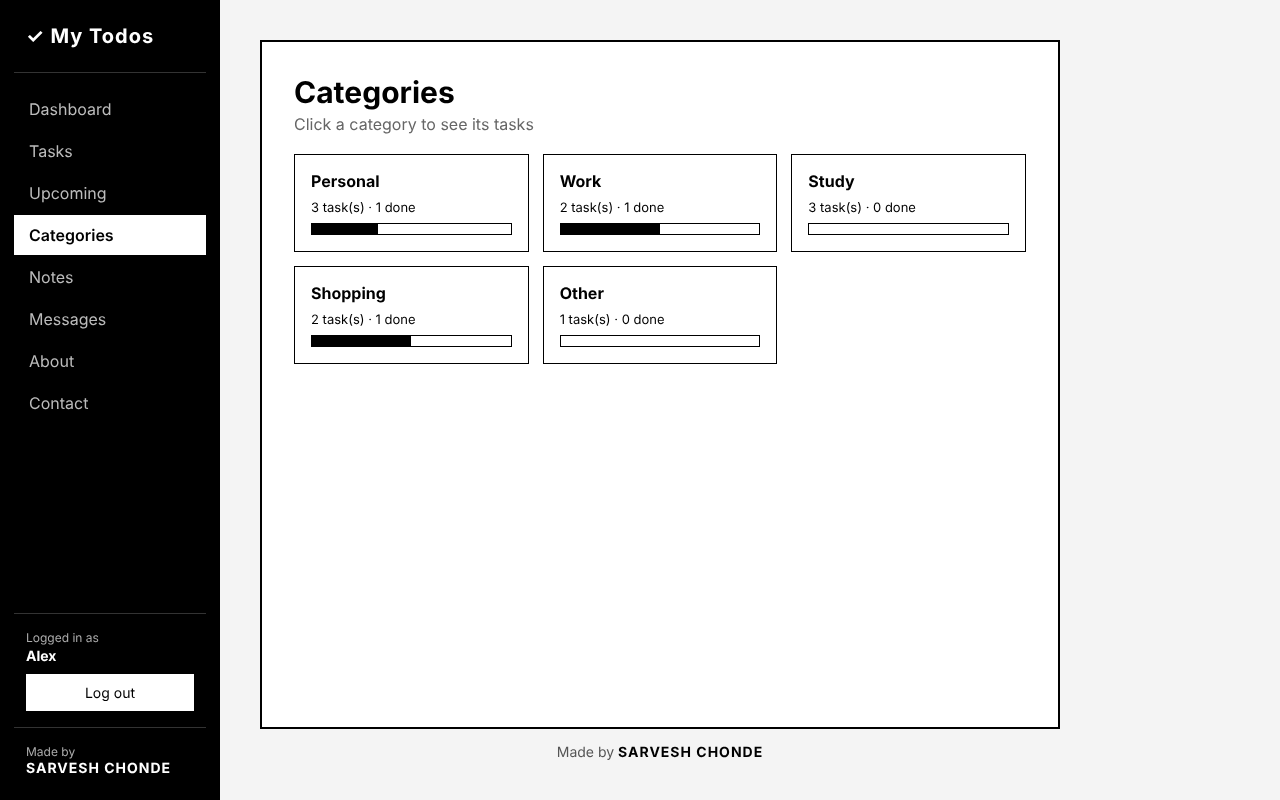
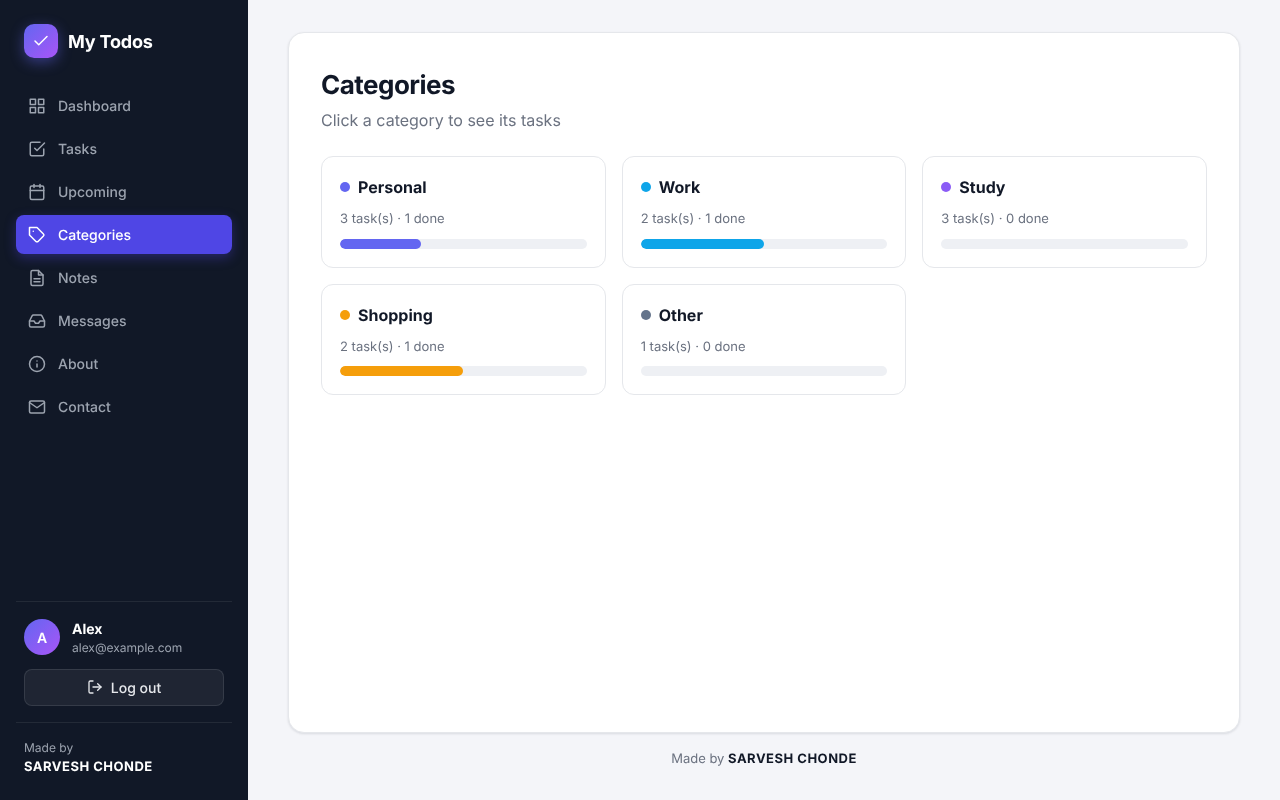
Refresh README screenshots for the new design and tidy the README
New screenshots of every page in the new design, a centred header with
tech badges and section links, a tech stack table and a project
structure section.

Claude-Session: https://claude.ai/code/session_014zHQb9wv94r19junnprv6W

diff --git a/README.md b/README.md
@@ -1,12 +1,31 @@
-# To Do List App
+<div align="center">
 
-A full-stack to do list app made by **SARVESH CHONDE**.
+# ✓ To Do List App
 
-- **client** – React (Vite) with React Router
-- **server** – Node.js (Express) REST API
-- **database** – MongoDB (any MongoDB you can open in MongoDB Compass, db `todoDb` by default)
+**A full-stack to do list app with accounts, categories, due dates and notes.**
+
+![React](https://img.shields.io/badge/React-19-149ECA?logo=react&logoColor=white)
+![Vite](https://img.shields.io/badge/Vite-8-646CFF?logo=vite&logoColor=white)
+![Node.js](https://img.shields.io/badge/Node.js-20.19%2B-339933?logo=nodedotjs&logoColor=white)
+![Express](https://img.shields.io/badge/Express-5-000000?logo=express&logoColor=white)
+![MongoDB](https://img.shields.io/badge/MongoDB-Compass%20ready-47A248?logo=mongodb&logoColor=white)
+![JWT](https://img.shields.io/badge/Auth-JWT%20%2B%20bcrypt-4F46E5)
+
+Made by **SARVESH CHONDE**
+
+[Features](#features) · [Screenshots](#screenshots) · [Setup](#prerequisites) · [API](#api) · [Project structure](#project-structure)
+
+</div>
 
 ![Dashboard](docs/screenshots/dashboard.png)
+
+## Tech stack
+
+| Part | Built with |
+| --- | --- |
+| **client** | React (Vite) with React Router, plain CSS, Inter font |
+| **server** | Node.js (Express) REST API, JWT logins, bcrypt password hashing |
+| **database** | MongoDB (any MongoDB you can open in MongoDB Compass, db `todoDb` by default) |
 
 ## Features
 
@@ -19,6 +38,7 @@ A full-stack to do list app made by **SARVESH CHONDE**.
 - Categories page with per-category progress
 - Notes you can add, edit and delete
 - Contact form anyone can use; logged in users can read the messages on the Messages page
+- Colour-coded priorities (High / Medium / Low) and categories
 - Works on phones: the sidebar becomes a top menu and task rows wrap
 
 ## Screenshots
@@ -140,6 +160,25 @@ All request and response bodies are JSON. Errors come back as `{ "msg": "..." }`
 | DELETE | `/messages/:id` 🔒 | Delete a message |
 
 `priority` is one of `Low`, `Medium`, `High`, and `category` is one of `Personal`, `Work`, `Study`, `Shopping`, `Other`.
+
+## Project structure
+
+```
+├── client/                  React app (Vite)
+│   ├── index.html
+│   └── src/
+│       ├── main.jsx         starts the app
+│       ├── App.jsx          page routes (which ones need a login)
+│       ├── auth.jsx         login state, log in / sign up / log out
+│       ├── api.js           request helper and date helpers
+│       ├── icons.jsx        line icons
+│       ├── App.css          all the styles
+│       └── *.jsx            one file per page (dashboard, tasks, notes, ...)
+├── server/                  Express API
+│   ├── server.js            routes, login checks, MongoDB queries
+│   └── .env.example         settings to copy into .env
+└── docs/screenshots/        the images in this README
+```
 
 ## Development evidence
 
